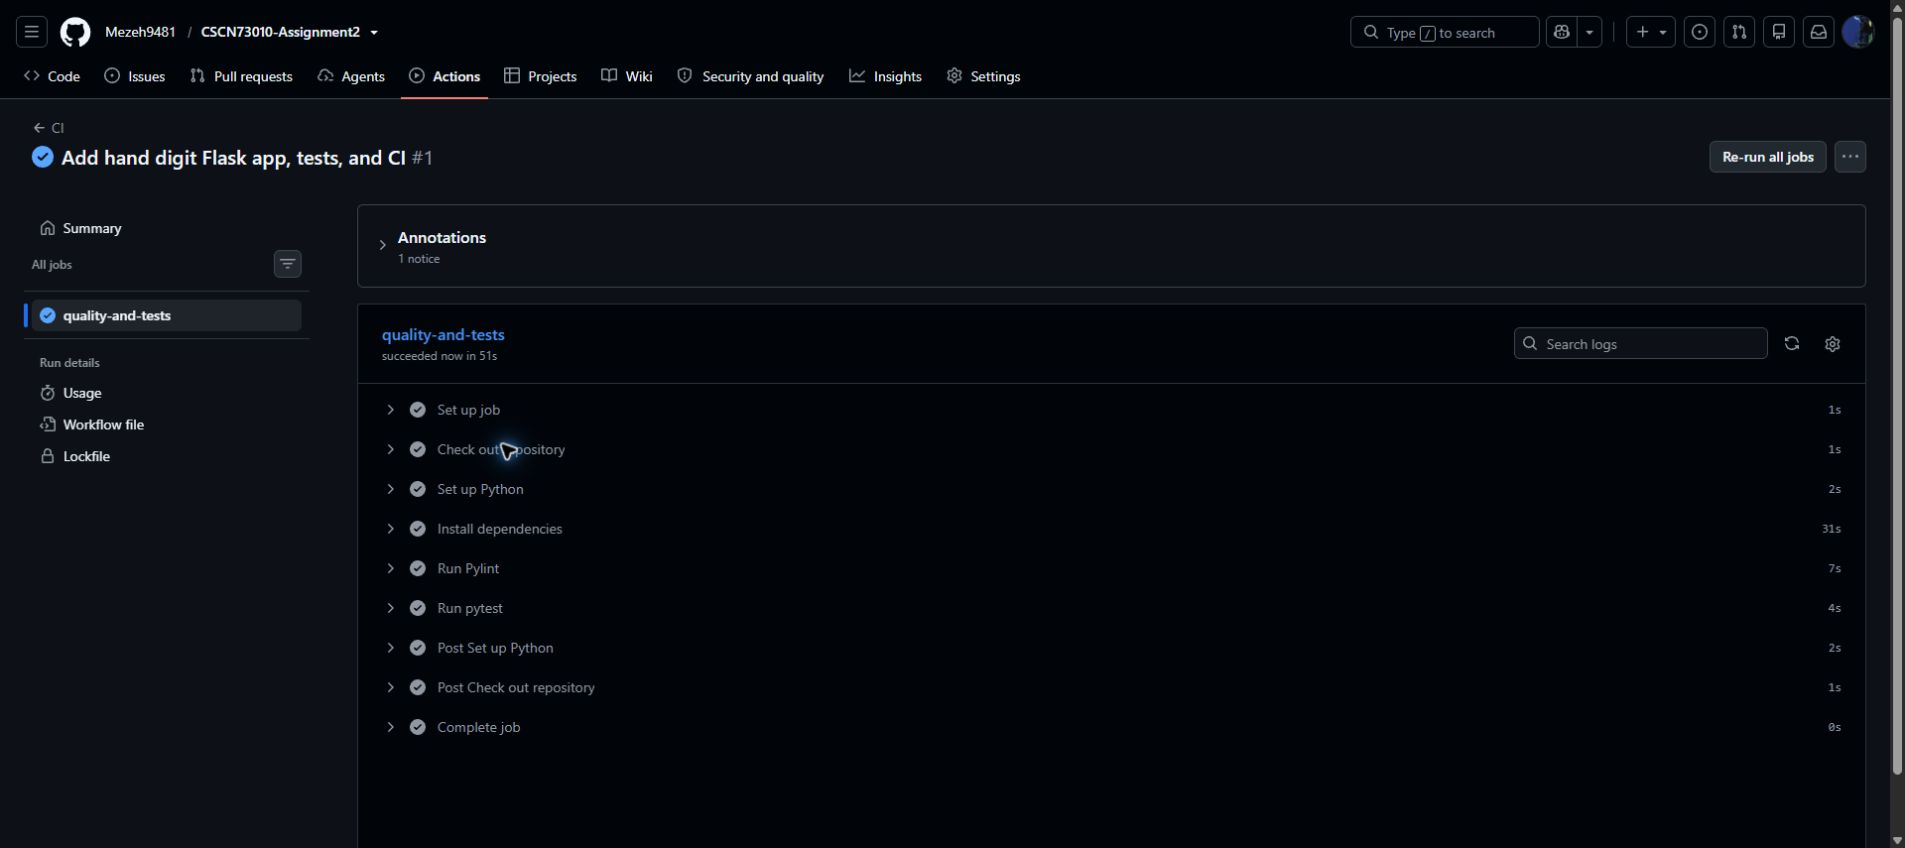
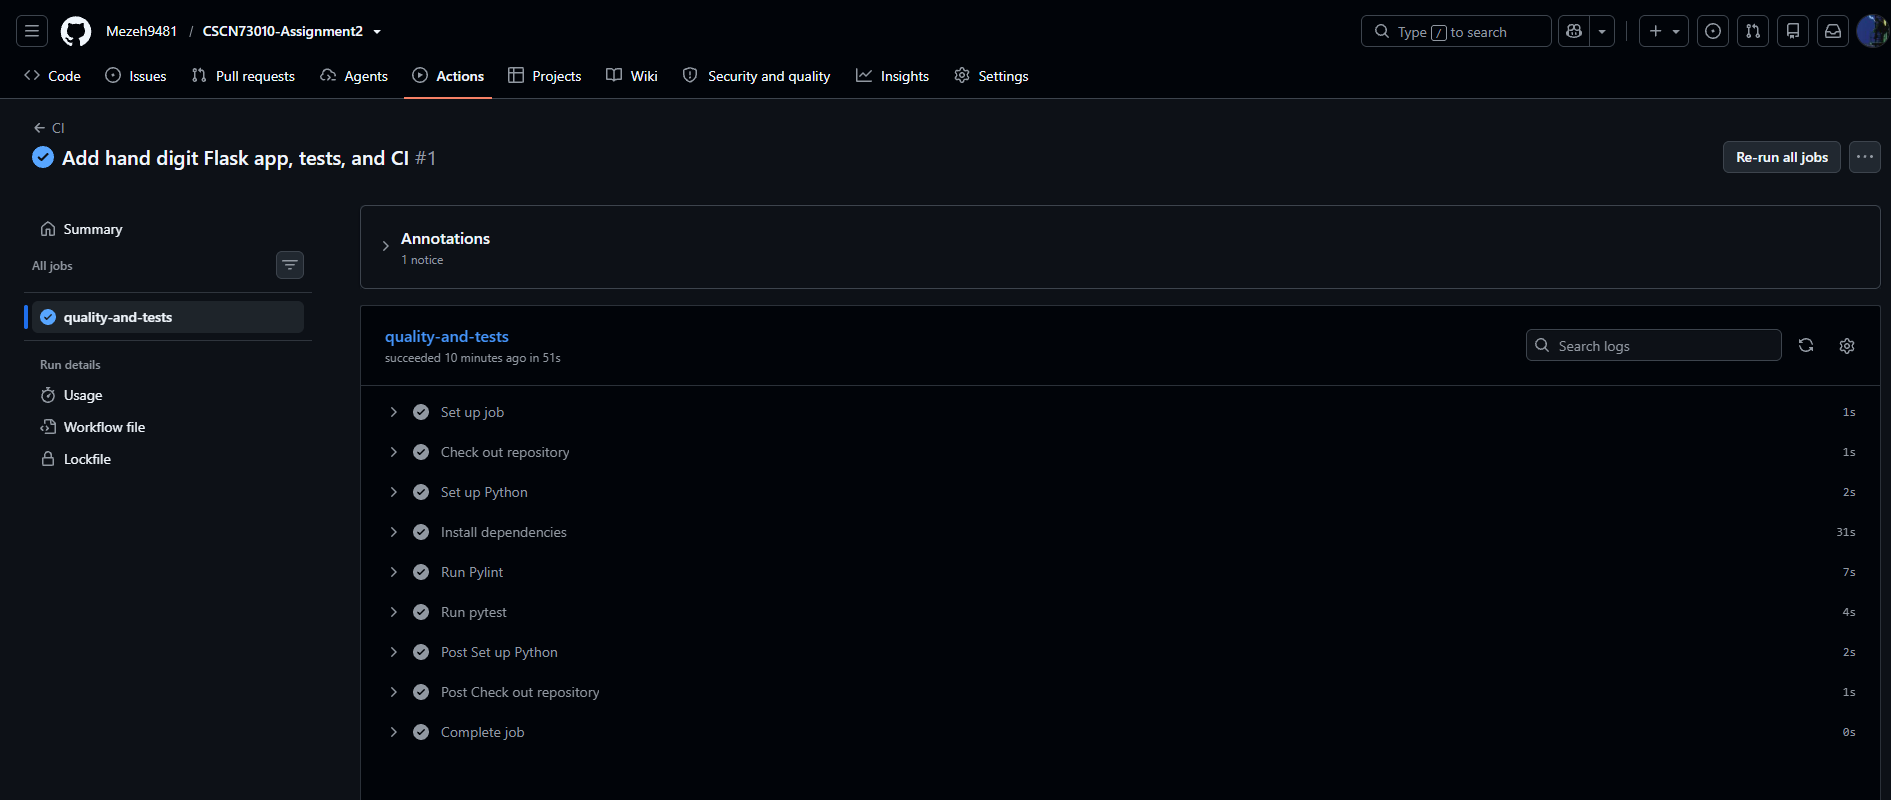
Use my GitHub Actions screenshots

diff --git a/ASSIGNMENT_REPORT.md b/ASSIGNMENT_REPORT.md
@@ -91,9 +91,12 @@ flowchart LR
 
 Local tests found three genuine input-handling failures, and Pylint rated the earlier code 7.65/10. After the route and model corrections, all nine tests pass and Pylint rates the code 10.00/10. The saved baseline logs document this local progression.
 
-The first [GitHub Actions run](https://github.com/Mezeh9481/CSCN73010-Assignment2/actions/runs/40164432359) was triggered by commit `259388f` on `main`, pushed by Mezeh9481. The `quality-and-tests` job succeeded. Its Pylint and pytest steps both passed.
+The first [GitHub Actions run](https://github.com/Mezeh9481/CSCN73010-Assignment2/actions/runs/40164432359) was triggered by commit `259388f` on `main`, pushed by Mezeh9481. The `quality-and-tests` job succeeded, including Pylint and pytest. The [second run](https://github.com/Mezeh9481/CSCN73010-Assignment2/actions/runs/40164836798) was triggered by commit `46955c7` and also passed.
 
 ![Successful GitHub Actions job](evidence/04-actions-success.png)
 *Figure 4. First GitHub Actions run, showing the passing Pylint and pytest steps.*
 
-The initial public push contained one commit. The earlier failures were local development checks, documented in the baseline logs; no failed remote CI run is documented.
+![Both successful workflow runs](evidence/05-actions-two-runs.png)
+*Figure 5. Both pushes produced successful GitHub Actions runs.*
+
+The earlier failures were local development checks, documented in the baseline logs. No failed remote CI run is documented.
